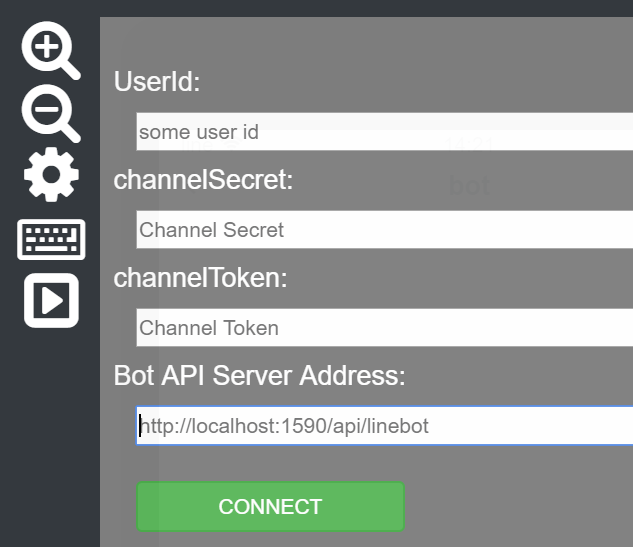
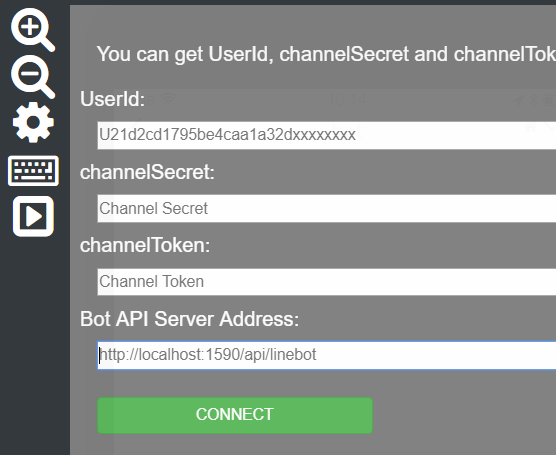
update readme

diff --git a/simulator.html b/simulator.html
@@ -177,10 +177,11 @@
             </div>
         </div>
         <div class="settings">
+            <h4>You can get UserId, channelSecret and channelToken from <a style="color:white" href="https://developers.line.me/console/" target="_blank">LINE Developer Console</a></h4>
             <div class="row">
                 <h4>UserId:</h4>
                 <div class="col-md-8">
-                    <input type=text placeholder="some user id" id="userId" value="" />
+                    <input type=text placeholder="U21d2cd1795be4caa1a32dxxxxxxxx" id="userId" value="" />
                 </div>
             </div>
             <div class="row">

diff --git a/README.md b/README.md
@@ -59,7 +59,7 @@ const line = require('@line/bot-sdk');
 
 ## How to use the simulator.
 1. Open Chrome and connect to http://localhost:8080
-1. You will see the connection page. Enter your Bot API URL, user id, channel secret and token, then click "connect".<br/>![settings.png](readme_img/settings.PNG)
+1. You will see the connection page. Enter your Bot API URL, user id, channel secret and token, then click "connect". You can get UserId, ChannelSecret and ChannelToke from [LINE Developer Portal](https://developers.line.me/console/) <br/>![settings.png](readme_img/settings.PNG)
 1. In the chat bar, enter any text and hit "Enter" or click send icon.<br/>![chatbar.png](readme_img/chatbar.PNG)
 1. Depending on your implementaion, you can see reply.<br/>![chatreply.png](readme_img/chatreply.PNG)
 

diff --git a/README_ja.md b/README_ja.md
@@ -57,7 +57,7 @@ const line = require('@line/bot-sdk');
 
 ## 使い方
 1. Chrome を開いて http://localhost:8080 に接続。
-1. 接続ページが出るので、必要な値を入力して、"connect" をクリック。<br/>![settings.png](readme_img/settings.PNG)
+1. 接続ページが出るので、必要な値を入力して、"connect" をクリック。UserId, ChannelSecret, ChannelToken は [LINE 開発者ポータル](https://developers.line.me/console/) から取得可能。<br/>![settings.png](readme_img/settings.PNG)
 1. チャットバーにメッセージを入れて、Enter キー押下または送信アイコンをクリック。<br/>![chatbar.png](readme_img/chatbar.PNG)
 1. 返信を確認。<br/>![chatreply.png](readme_img/chatreply.PNG)
 
